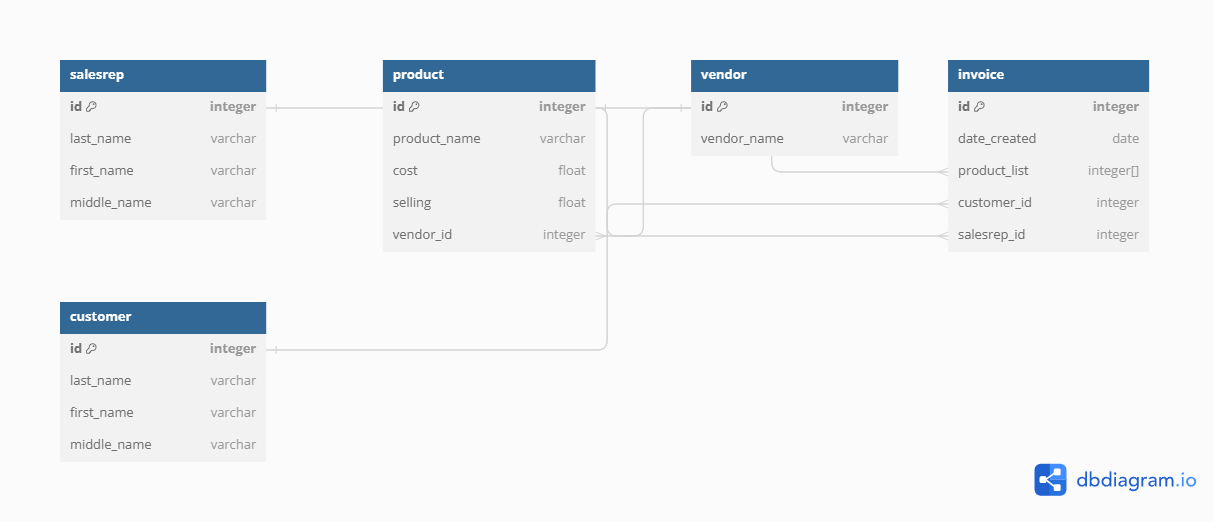
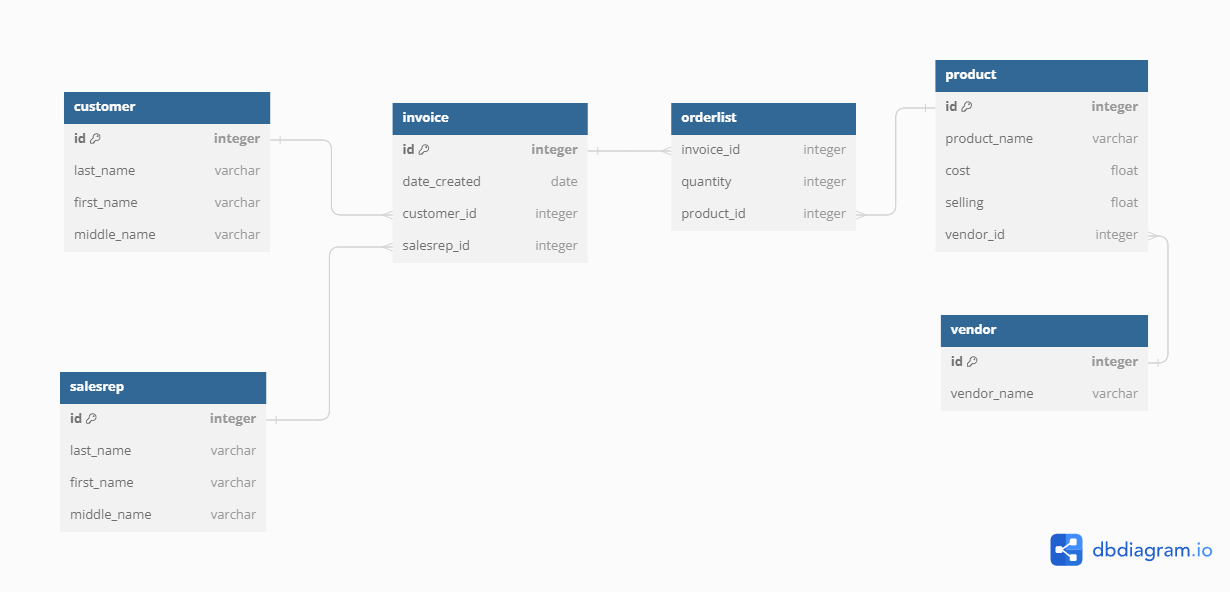
Modified Database Structure and Added sample Data using Insert Into

diff --git a/Wegotitallforyou.py b/Wegotitallforyou.py
@@ -1,25 +1,30 @@
 import sqlite3
+from datetime import datetime
 
 conn = sqlite3.connect("Wegotitallforyou.db")
 cursor = conn.cursor()
 conn.execute("PRAGMA foreign_keys = 1")
+sql = ""
+values = []
+value = ()
 
+#Strings to create each table
 createSalesRepTableQuery = """CREATE TABLE IF NOT EXISTS [salesrep] (
-  [id] integer PRIMARY KEY,
+  [id] integer PRIMARY KEY AUTOINCREMENT,
   [last_name] nvarchar(255),
   [first_name] nvarchar(255),
   [middle_name] nvarchar(255)
   )"""
 
 createCustomerTableQuery = """CREATE TABLE IF NOT EXISTS [customer] (
-  [id] integer PRIMARY KEY,
+  [id] integer PRIMARY KEY AUTOINCREMENT,
   [last_name] nvarchar(255),
   [first_name] nvarchar(255),
   [middle_name] nvarchar(255)
   )"""
 
 createProductTableQuery = """CREATE TABLE IF NOT EXISTS [product] (
-  [id] integer PRIMARY KEY,
+  [id] integer PRIMARY KEY AUTOINCREMENT,
   [product_name] nvarchar(255),
   [cost] float,
   [selling] float,
@@ -28,33 +33,119 @@ createProductTableQuery = """CREATE TABLE IF NOT EXISTS [product] (
   )"""
 
 createVendorTableQuery = """CREATE TABLE IF NOT EXISTS [vendor] (
-  [id] integer PRIMARY KEY,
+  [id] integer PRIMARY KEY AUTOINCREMENT,
   [vendor_name] nvarchar(255)
   )"""
 
-#column product list should be an array but is not supported in sql lite.
-#It can be stored as string and handled in the program
 createInvoiceTableQuery = """CREATE TABLE IF NOT EXISTS [invoice] (
-  [id] integer PRIMARY KEY,
-  [date_created] date,
-  [product_list] nvarchar(255),
+  [id] integer PRIMARY KEY AUTOINCREMENT,
+  [datetime_created] datetime,
   [customer_id] integer,
   [salesrep_id] integer,
-  FOREIGN KEY(product_list) REFERENCES product(id),
   FOREIGN KEY(customer_id) REFERENCES customer(id),
   FOREIGN KEY(salesrep_id) REFERENCES salesrep(id)
   )"""
 
-print(f"{createSalesRepTableQuery}")
-print(f"{createCustomerTableQuery}")
-print(f"{createProductTableQuery}")
-print(f"{createVendorTableQuery}")
-print(f"{createInvoiceTableQuery}")
+createOrderListTableQuery = """CREATE TABLE IF NOT EXISTS [orderlist] (
+  [invoice_id] integer,
+  [quantity] integer,
+  [product_id] integer,
+  FOREIGN KEY(invoice_id) REFERENCES invoice(id),
+  FOREIGN KEY(product_id) REFERENCES product(id)
+  )"""
 
-
+#Create Tables
 cursor.execute(createSalesRepTableQuery)
 cursor.execute(createCustomerTableQuery)
 cursor.execute(createProductTableQuery)
 cursor.execute(createVendorTableQuery)
 cursor.execute(createInvoiceTableQuery)
-#conn.commit()
+cursor.execute(createOrderListTableQuery)
+
+#Insert Sample Data to Employee Table
+sql = "INSERT INTO salesrep (last_name, first_name, middle_name) \
+  values (:values(0), :values(1), :values(2))"
+values = [
+  ("salesrepEscolar", "Ferdinand", "Camba"),
+  ("salesrepDanganan", "Duvall", "Q"),
+  ("salesrepBonggal", "Arvin", "W"),
+  ("salesrepLoma", "Mark", "Y"),
+  ("salesrepLeonardo", "Rico", "M"),
+  ("salesrepBernardo", "Kathryn", "A"),
+  ("salesrepPadilla", "Daniel", "J"),
+  ("salesrepDiaz", "Ogie", "M")
+  ]
+cursor.executemany(sql,values)
+conn.commit()
+print(f"Salesrep Table: {cursor.rowcount} records inserted")
+conn.commit()
+
+#Insert Sample Data to customer Table
+sql = "INSERT INTO customer (last_name, first_name, middle_name) \
+  values (:values(0), :values(1), :values(2))"
+values = [
+  ("customerEscolar", "Ferdinand", "Camba"),
+  ("customerDanganan", "Duvall", "Q"),
+  ("customerBonggal", "Arvin", "W"),
+  ("customerLoma", "Mark", "Y"),
+  ("customerLeonardo", "Rico", "M"),
+  ("customerBernardo", "Kathryn", "A"),
+  ("customerPadilla", "Daniel", "J"),
+  ("customerDiaz", "Ogie", "M")
+  ]
+cursor.executemany(sql,values)
+conn.commit()
+print(f"Customer Table: {cursor.rowcount} records inserted")
+conn.commit()
+
+#Insert Sample Data to Vendor Table
+sql = "INSERT INTO vendor (vendor_name) values (:values(0))"
+values = [
+  ("Ace Hardware",),
+  ("Handyman",),
+  ("Tolsen",),
+  ("Makita",),
+  ("Royu",),
+  ("Omni",),
+  ("Firefly",)
+  ]
+cursor.executemany(sql,values)
+conn.commit()
+print(f"Vendor Table: {cursor.rowcount} records inserted")
+
+#Insert Sample Data to Product Table
+sql = "INSERT INTO product (product_name, cost, selling, vendor_id) \
+  values (:values(0), :values(1), :values(2), :values(3))"
+values = [
+  ("Drill", 5000, 7500, 1),
+  ("Drillbit", 100, 150,1),
+  ("Drill", 5500, 8000, 4),
+  ("Drillbit", 120, 180,4),
+  ("Bulb 9w", 50, 90, 6),
+  ("12 Awg per meter", 40, 60,5),
+  ("Bulb 12w", 90, 130, 7)
+  ]
+cursor.executemany(sql,values)
+conn.commit()
+print(f"Product Table: {cursor.rowcount} records inserted")
+conn.commit()
+
+#Insert Sample Data to  Invoice Table
+sql = "INSERT INTO invoice (datetime_created, customer_id, salesrep_id) \
+  values (:values(0), :values(1), :values(2))"
+value = (datetime.now(),1,1)
+cursor.execute(sql,value)
+conn.commit()
+print(f"Invoice Table: {cursor.rowcount} records inserted")
+
+#Insert Sample Data to  Orderlist Table
+sql = "INSERT INTO orderlist (invoice_id, quantity, product_id) \
+  values (:values(0), :values(1), :values(2))"
+values = [(1, 4, 1),
+          (1, 5, 2),
+          (1, 10, 5),
+          (1, 100, 6)
+        ]
+cursor.executemany(sql,values)
+conn.commit()
+print(f"Orderlist Table: {cursor.rowcount} records inserted")
